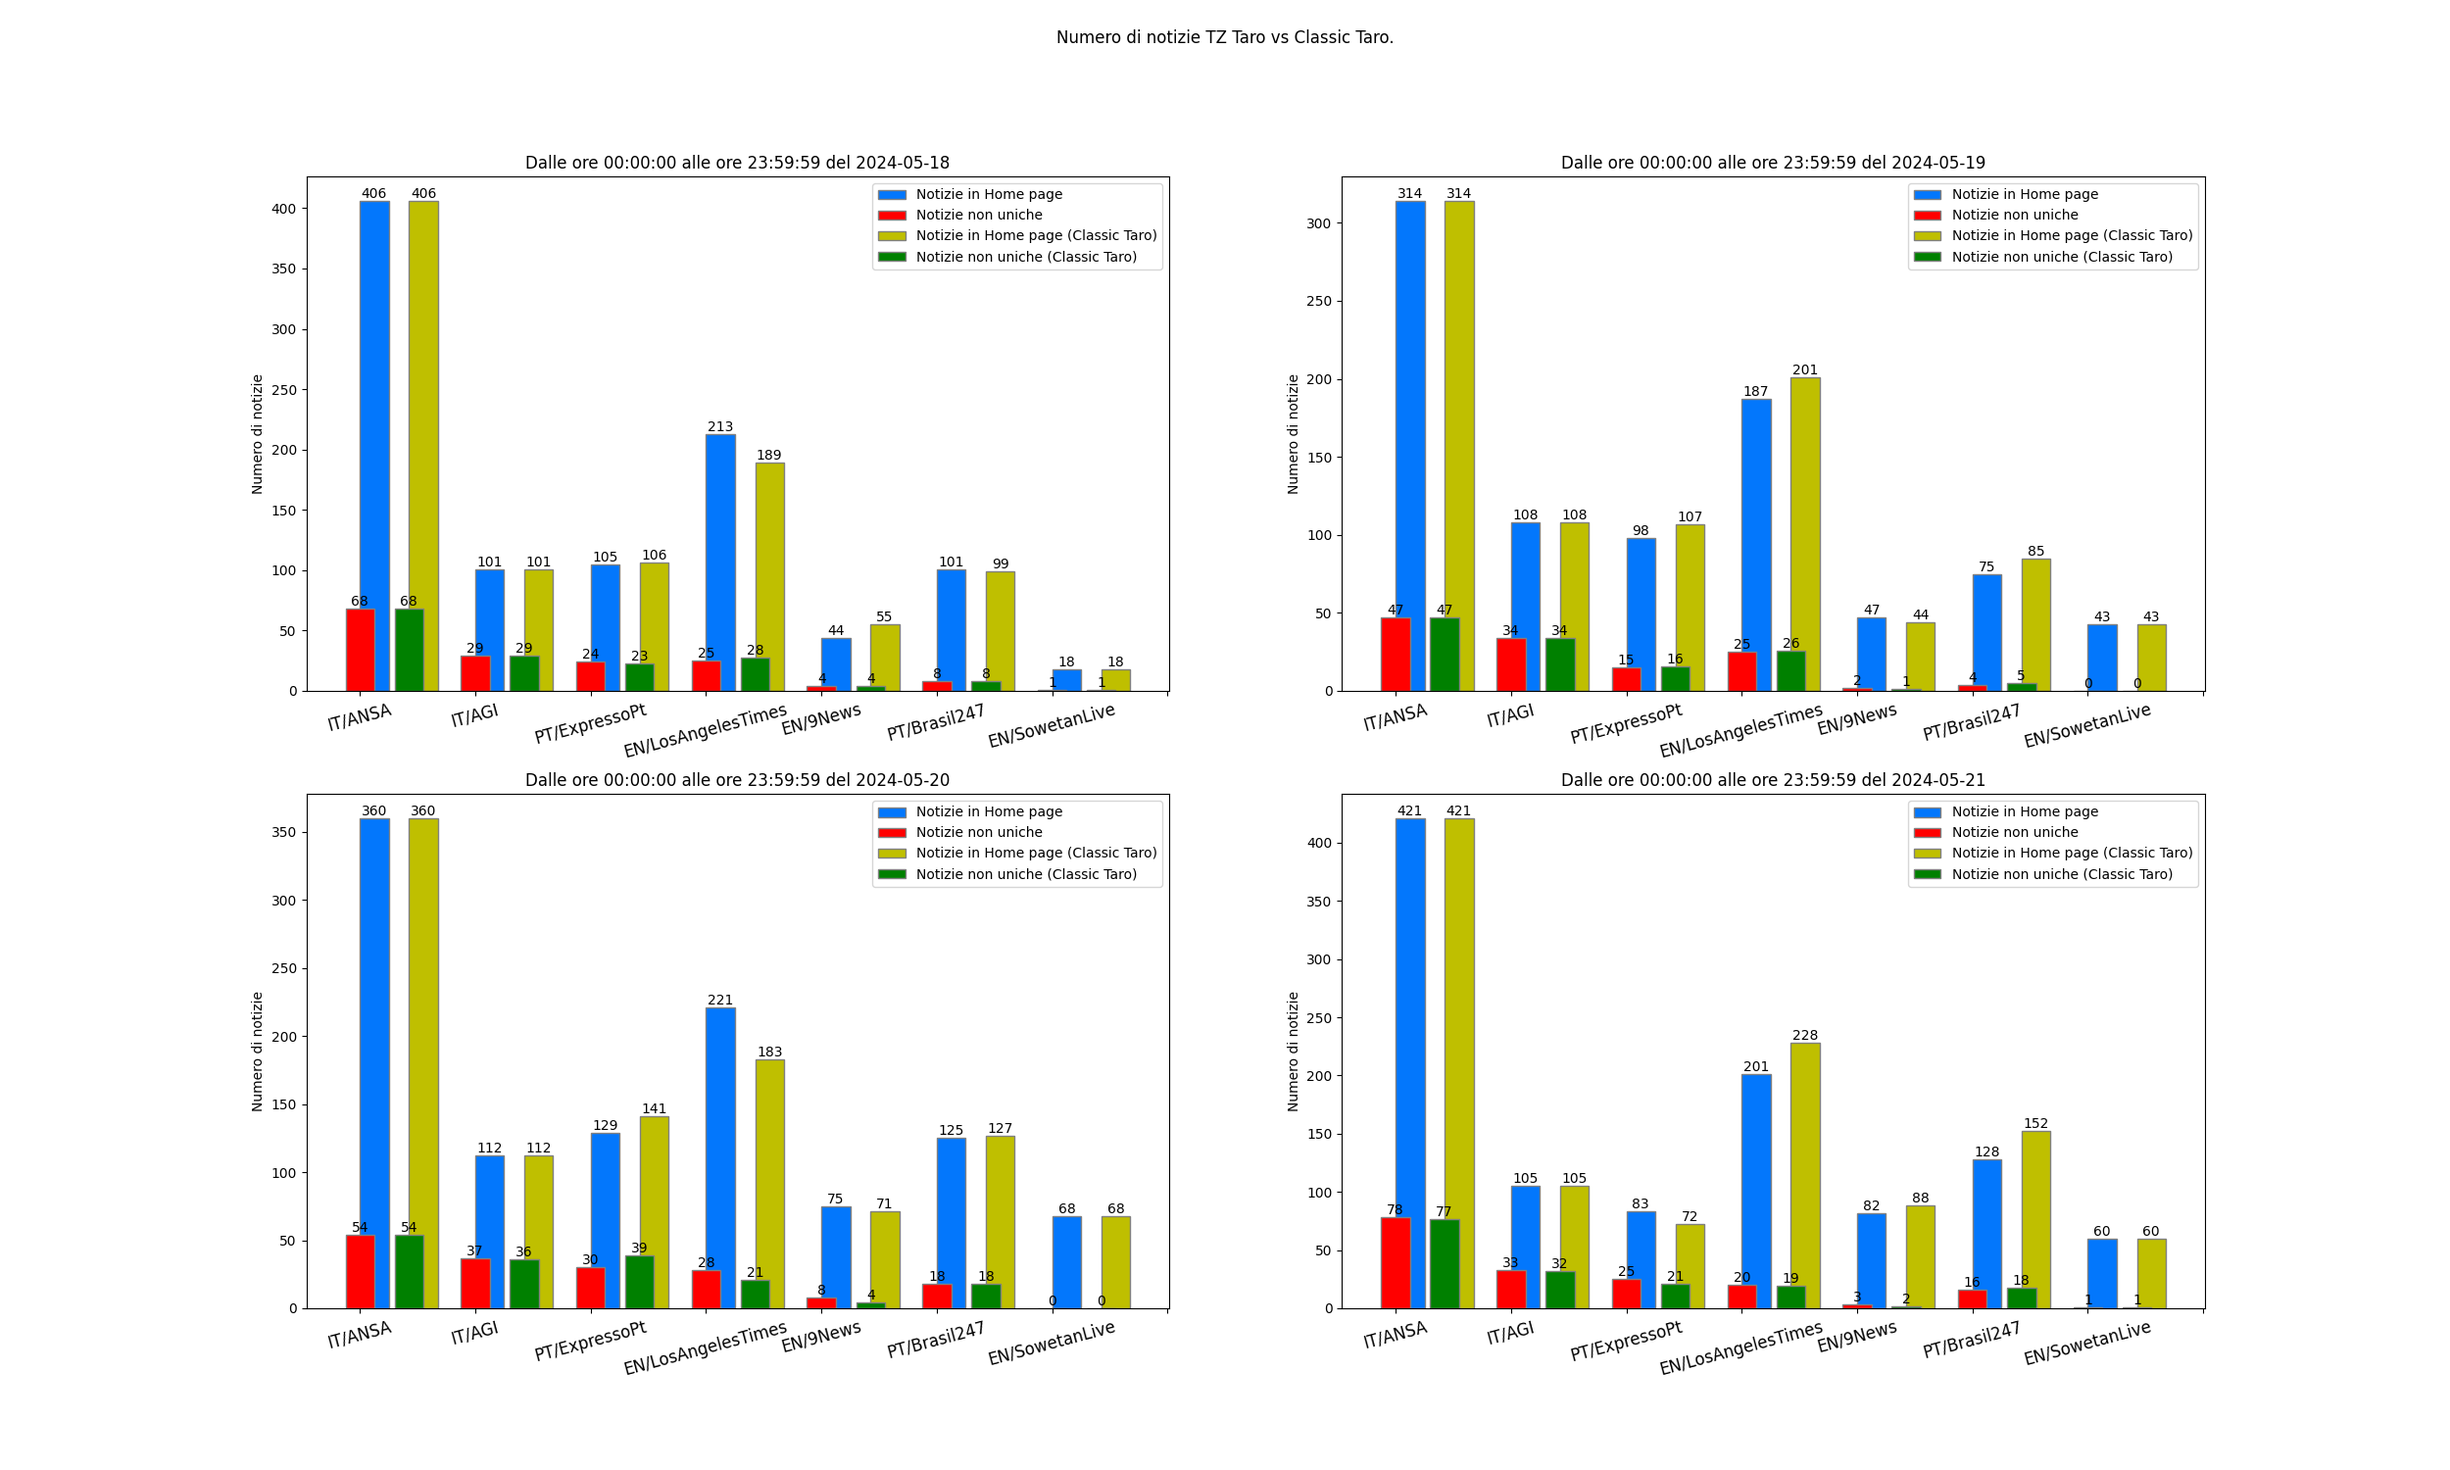
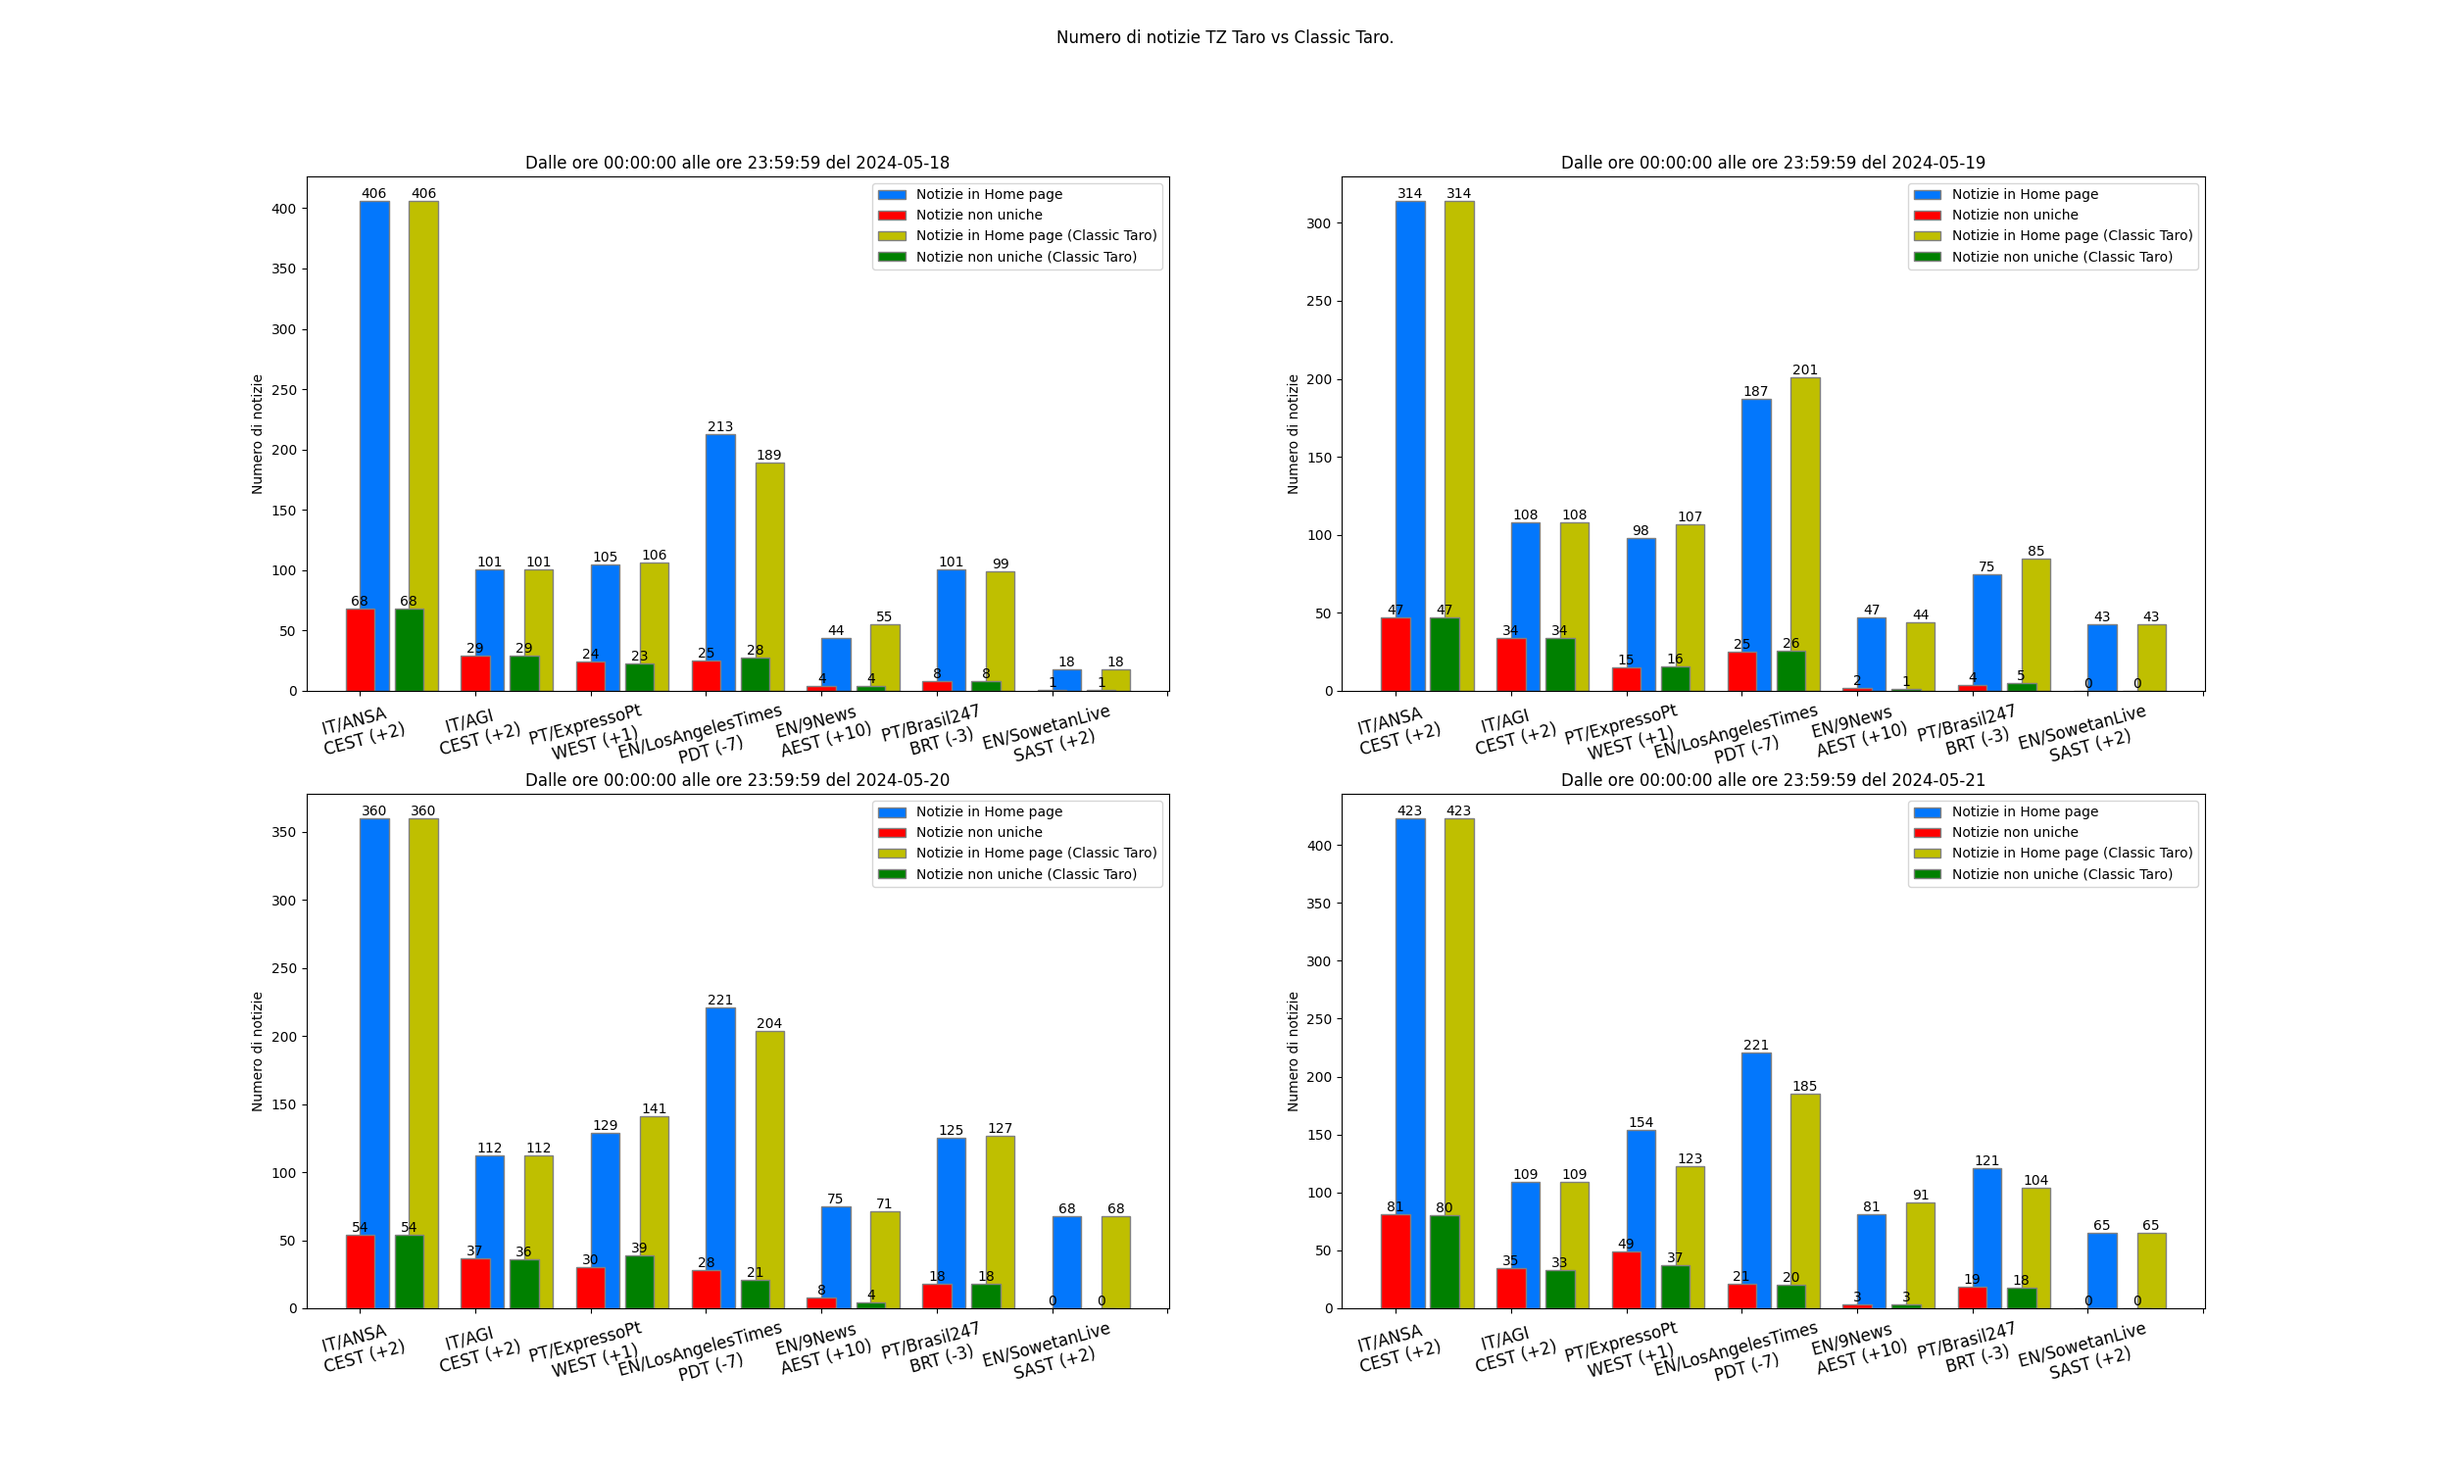
Avanzamento

diff --git a/timezone/ANALISI_ORARIA.py b/timezone/ANALISI_ORARIA.py
@@ -22,6 +22,17 @@ NEWS_PAPERS = [
     "EN/SowetanLive",
 ]
 
+FUSI_ORARI = [
+    "IT/ANSA \n CEST (+2)",
+    "IT/AGI \n CEST (+2)",
+    "PT/ExpressoPt \n WEST (+1)",
+    "EN/LosAngelesTimes \n PDT (-7)",
+    "EN/9News \n AEST (+10)",
+    "PT/Brasil247 \n BRT (-3)",
+    "EN/SowetanLive \n SAST (+2) "
+]
+
+
 home_pages = [
     "https://www.latimes.com",
     "https://www.news.com.au",
@@ -168,7 +179,7 @@ def main():
         min_value = -1
         max_value = -1
 
-        for (label, path) in enumerate(NEWS_PAPERS):
+        for (label, path) in enumerate(FUSI_ORARI):
             if min_value == -1:
                 min_value = len(articles_not_unique_title[label])
             else:
@@ -187,7 +198,7 @@ def main():
         min_value = -1
         max_value = -1
 
-        for (label, path) in enumerate(NEWS_PAPERS):
+        for (label, path) in enumerate(FUSI_ORARI):
             if min_value == -1:
                 min_value = len(articles_not_unique_title_st[label])
             else:

diff --git a/timezone/ANALISI_12HR.py b/timezone/ANALISI_12HR.py
@@ -22,6 +22,16 @@ NEWS_PAPERS = [
     "EN/SowetanLive",
 ]
 
+FUSI_ORARI = [
+    "IT/ANSA \n CEST (+2)",
+    "IT/AGI \n CEST (+2)",
+    "PT/ExpressoPt \n WEST (+1)",
+    "EN/LosAngelesTimes \n PDT (-7)",
+    "EN/9News \n AEST (+10)",
+    "PT/Brasil247 \n BRT (-3)",
+    "EN/SowetanLive \n SAST (+2) "
+]
+
 home_pages = [
     "https://www.latimes.com",
     "https://www.news.com.au",
@@ -165,7 +175,7 @@ def main():
         min_value = -1
         max_value = -1
 
-        for (label, path) in enumerate(NEWS_PAPERS):
+        for (label, path) in enumerate(FUSI_ORARI):
             if min_value == -1:
                 min_value = len(articles_not_unique_title[label])
             else:
@@ -184,7 +194,7 @@ def main():
         min_value = -1
         max_value = -1
 
-        for (label, path) in enumerate(NEWS_PAPERS):
+        for (label, path) in enumerate(FUSI_ORARI):
             if min_value == -1:
                 min_value = len(articles_not_unique_title_st[label])
             else:

diff --git a/timezone/ANALISI_24HR.py b/timezone/ANALISI_24HR.py
@@ -22,6 +22,16 @@ NEWS_PAPERS = [
     "EN/SowetanLive",
 ]
 
+FUSI_ORARI = [
+    "IT/ANSA \n CEST (+2)",
+    "IT/AGI \n CEST (+2)",
+    "PT/ExpressoPt \n WEST (+1)",
+    "EN/LosAngelesTimes \n PDT (-7)",
+    "EN/9News \n AEST (+10)",
+    "PT/Brasil247 \n BRT (-3)",
+    "EN/SowetanLive \n SAST (+2) "
+]
+
 home_pages = [
     "https://www.latimes.com",
     "https://www.news.com.au",
@@ -162,7 +172,7 @@ def main():
         min_value = -1
         max_value = -1
 
-        for (label, path) in enumerate(NEWS_PAPERS):
+        for (label, path) in enumerate(FUSI_ORARI):
             if min_value == -1:
                 min_value = len(articles_not_unique_title[label])
             else:
@@ -181,7 +191,7 @@ def main():
         min_value = -1
         max_value = -1
 
-        for (label, path) in enumerate(NEWS_PAPERS):
+        for (label, path) in enumerate(FUSI_ORARI):
             if min_value == -1:
                 min_value = len(articles_not_unique_title_st[label])
             else:

diff --git a/timezone/ANALISI_3HR.py b/timezone/ANALISI_3HR.py
@@ -22,6 +22,16 @@ NEWS_PAPERS = [
     "EN/SowetanLive",
 ]
 
+FUSI_ORARI = [
+    "IT/ANSA \n CEST (+2)",
+    "IT/AGI \n CEST (+2)",
+    "PT/ExpressoPt \n WEST (+1)",
+    "EN/LosAngelesTimes \n PDT (-7)",
+    "EN/9News \n AEST (+10)",
+    "PT/Brasil247 \n BRT (-3)",
+    "EN/SowetanLive \n SAST (+2) "
+]
+
 home_pages = [
     "https://www.latimes.com",
     "https://www.news.com.au",
@@ -190,7 +200,7 @@ def main():
         min_value = -1
         max_value = -1
 
-        for (label, path) in enumerate(NEWS_PAPERS):
+        for (label, path) in enumerate(FUSI_ORARI):
             if min_value == -1:
                 min_value = len(articles_not_unique_title[label])
             else:
@@ -209,7 +219,7 @@ def main():
         min_value = -1
         max_value = -1
 
-        for (label, path) in enumerate(NEWS_PAPERS):
+        for (label, path) in enumerate(FUSI_ORARI):
             if min_value == -1:
                 min_value = len(articles_not_unique_title_st[label])
             else:

diff --git a/timezone/ANALISI_4D.py b/timezone/ANALISI_4D.py
@@ -27,6 +27,16 @@ NEWS_PAPERS = [
     "EN/SowetanLive",
 ]
 
+FUSI_ORARI = [
+    "IT/ANSA \n CEST (+2)",
+    "IT/AGI \n CEST (+2)",
+    "PT/ExpressoPt \n WEST (+1)",
+    "EN/LosAngelesTimes \n PDT (-7)",
+    "EN/9News \n AEST (+10)",
+    "PT/Brasil247 \n BRT (-3)",
+    "EN/SowetanLive \n SAST (+2) "
+]
+
 home_pages = [
     "https://www.latimes.com",
     "https://www.news.com.au",
@@ -163,7 +173,7 @@ def main():
         min_value = -1
         max_value = -1
 
-        for (label, path) in enumerate(NEWS_PAPERS):
+        for (label, path) in enumerate(FUSI_ORARI):
             if min_value == -1:
                 min_value = len(articles_not_unique_title[label])
             else:
@@ -182,7 +192,7 @@ def main():
         min_value = -1
         max_value = -1
 
-        for (label, path) in enumerate(NEWS_PAPERS):
+        for (label, path) in enumerate(FUSI_ORARI):
             if min_value == -1:
                 min_value = len(articles_not_unique_title_st[label])
             else:

diff --git a/timezone/ANALISI_6HR.py b/timezone/ANALISI_6HR.py
@@ -22,6 +22,16 @@ NEWS_PAPERS = [
     "EN/SowetanLive",
 ]
 
+FUSI_ORARI = [
+    "IT/ANSA \n CEST (+2)",
+    "IT/AGI \n CEST (+2)",
+    "PT/ExpressoPt \n WEST (+1)",
+    "EN/LosAngelesTimes \n PDT (-7)",
+    "EN/9News \n AEST (+10)",
+    "PT/Brasil247 \n BRT (-3)",
+    "EN/SowetanLive \n SAST (+2) "
+]
+
 home_pages = [
     "https://www.latimes.com",
     "https://www.news.com.au",
@@ -165,7 +175,7 @@ def main():
         min_value = -1
         max_value = -1
 
-        for (label, path) in enumerate(NEWS_PAPERS):
+        for (label, path) in enumerate(FUSI_ORARI):
             if min_value == -1:
                 min_value = len(articles_not_unique_title[label])
             else:
@@ -184,7 +194,7 @@ def main():
         min_value = -1
         max_value = -1
 
-        for (label, path) in enumerate(NEWS_PAPERS):
+        for (label, path) in enumerate(FUSI_ORARI):
             if min_value == -1:
                 min_value = len(articles_not_unique_title_st[label])
             else:
